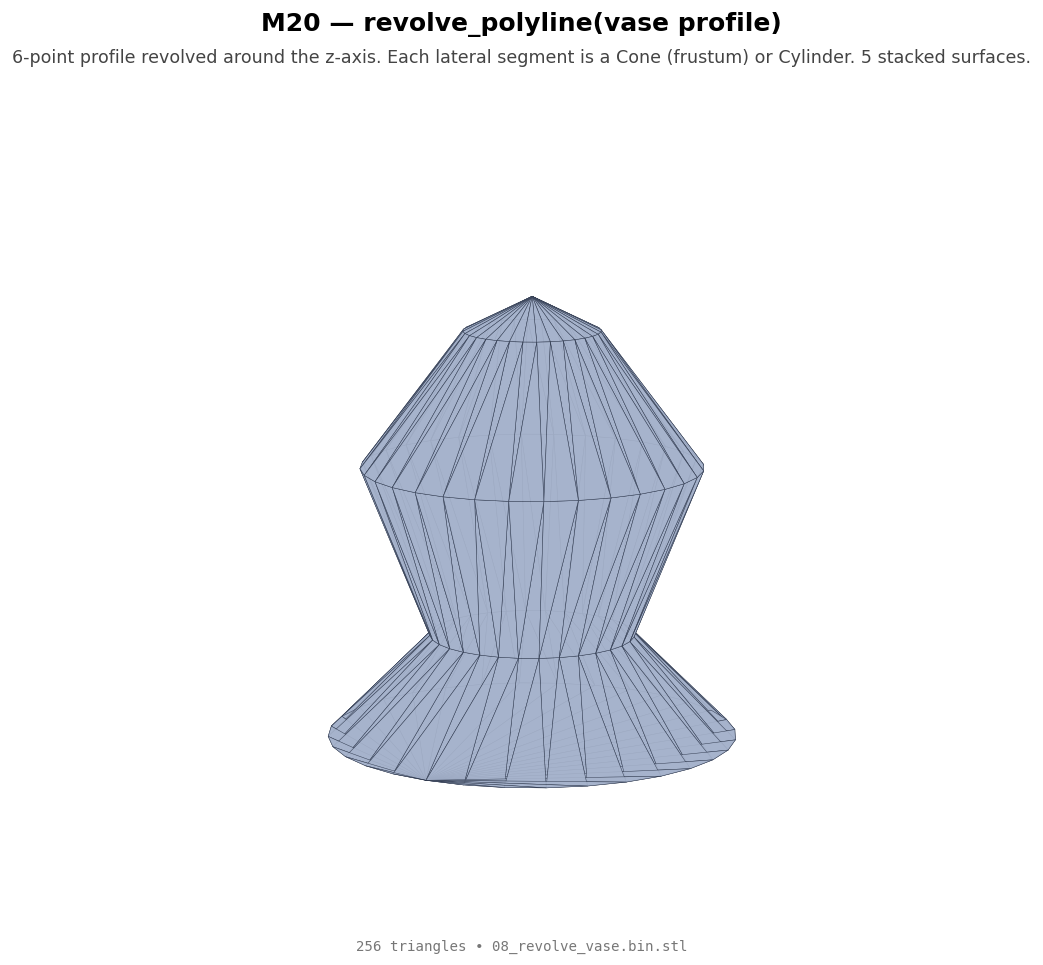
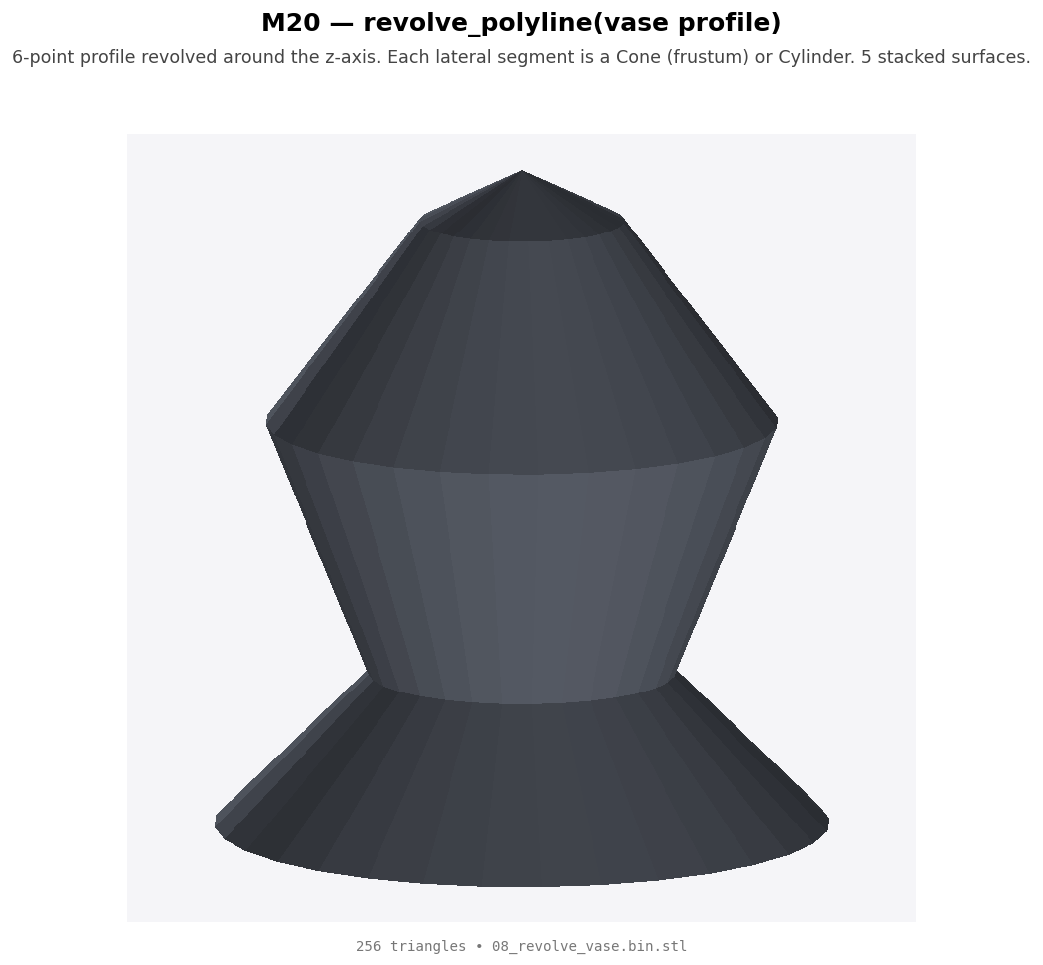
feat(scripts): software-rasterized shaded renderer with Z-buffer
Implements render_shaded.py — a pure-Python/numpy software rasterizer with
Z-buffer depth testing and two-light Lambertian shading (key + fill +
ambient).  Replaces matplotlib's wireframe Poly3DCollection with
proper occlusion: corner cuts show the notch, hollow shells are opaque,
curved surfaces (sphere, torus) render with smooth shading gradients.

Vectorized per-triangle rasterizer via numpy meshgrid + boolean masks;
all 17 screenshots re-rendered in ~14 s total.  render_captioned.py
updated to delegate to render_shaded.render_shaded().

Changed region(s): [[0.1841, 0.1554, 0.7977, 0.9326]]

diff --git a/scripts/render_shaded.py b/scripts/render_shaded.py
@@ -1,0 +1,206 @@
+#!/usr/bin/env python3
+"""Software-rasterized shaded STL renderer with Z-buffer + Lambertian shading.
+
+Uses a vectorized numpy rasterizer (~10x faster than a pure Python loop).
+No new dependencies beyond numpy + matplotlib (already installed).
+
+Lighting model: two lights in camera space.
+  - Key light: slightly above-left of the camera (camera-relative)
+  - Fill light: from behind/below (reduces pitch-black faces)
+  - Ambient floor: 0.25
+"""
+
+import argparse
+import os
+
+import numpy as np
+from stl import mesh as stlmesh
+import matplotlib
+matplotlib.use("Agg")
+import matplotlib.pyplot as plt
+
+
+def render_shaded(stl_path, out_path, width=800, height=800, title=None, subtitle=None,
+                  elev=25, azim=45, bg=(245, 245, 248), color=(170, 180, 200)):
+    m = stlmesh.Mesh.from_file(stl_path)
+    tris = m.vectors  # shape (N, 3, 3)
+
+    # ── Per-triangle normals (world space) ───────────────────────────────────
+    e1 = tris[:, 1] - tris[:, 0]
+    e2 = tris[:, 2] - tris[:, 0]
+    normals = np.cross(e1, e2)
+    norms = np.linalg.norm(normals, axis=1, keepdims=True)
+    norms[norms == 0] = 1.0
+    normals = normals / norms
+
+    # ── Camera / view setup ──────────────────────────────────────────────────
+    pts = tris.reshape(-1, 3)
+    mn = pts.min(axis=0)
+    mx = pts.max(axis=0)
+    center = (mn + mx) / 2.0
+    span = (mx - mn).max() * 1.5  # comfortable distance from mesh
+
+    azim_r = np.deg2rad(azim)
+    elev_r = np.deg2rad(elev)
+    cam_pos = center + span * np.array([
+        np.cos(elev_r) * np.cos(azim_r),
+        np.cos(elev_r) * np.sin(azim_r),
+        np.sin(elev_r),
+    ])
+
+    # Look-at basis vectors
+    forward = center - cam_pos
+    forward = forward / np.linalg.norm(forward)
+    world_up = np.array([0.0, 0.0, 1.0])
+    right = np.cross(forward, world_up)
+    if np.linalg.norm(right) < 1e-9:
+        world_up = np.array([0.0, 1.0, 0.0])
+        right = np.cross(forward, world_up)
+    right = right / np.linalg.norm(right)
+    up = np.cross(right, forward)
+
+    # ── Camera-relative lighting ─────────────────────────────────────────────
+    # Key light: in camera space, slightly up-left from forward.
+    # In world space this is: forward + 0.4*up - 0.3*right (normalized).
+    key_light = forward + 0.4 * up - 0.3 * right
+    key_light = key_light / np.linalg.norm(key_light)
+    # Fill light: from behind and below (softens back-face darkness).
+    fill_light = -forward - 0.5 * up + 0.2 * right
+    fill_light = fill_light / np.linalg.norm(fill_light)
+
+    # ── Transform all vertices to camera space (vectorized) ──────────────────
+    v = tris - cam_pos  # (N, 3, 3)
+    cam_tris = np.stack([
+        v @ right,    # x in camera space  (N, 3)
+        v @ up,       # y in camera space  (N, 3)
+        v @ forward,  # z = depth          (N, 3)
+    ], axis=-1)  # → (N, 3, 3)
+
+    # ── Orthographic projection to screen pixels ─────────────────────────────
+    cam_pts = cam_tris.reshape(-1, 3)
+    cmn = cam_pts[:, :2].min(axis=0)
+    cmx = cam_pts[:, :2].max(axis=0)
+    pad = (cmx - cmn).max() * 0.05
+    cmn -= pad
+    cmx += pad
+    side = max(cmx[0] - cmn[0], cmx[1] - cmn[1])
+    cctr = (cmn + cmx) / 2.0
+
+    # screen_tris: (N, 3, 3) — (px, py, depth)
+    screen_tris = np.zeros_like(cam_tris)
+    screen_tris[:, :, 0] = (cam_tris[:, :, 0] - cctr[0]) / side * width + width / 2.0
+    screen_tris[:, :, 1] = -(cam_tris[:, :, 1] - cctr[1]) / side * height + height / 2.0
+    screen_tris[:, :, 2] = cam_tris[:, :, 2]
+
+    # ── Lambertian shading (key + fill + ambient) ────────────────────────────
+    key_intensity = 0.65
+    fill_intensity = 0.25
+    ambient = 0.25
+
+    key_contrib = np.maximum(0.0, normals @ key_light) * key_intensity
+    fill_contrib = np.maximum(0.0, normals @ fill_light) * fill_intensity
+    shades = ambient + key_contrib + fill_contrib  # (N,)  range ~[0.25, 1.15]
+    # Cap at 1.0 for realism; slight overdrive is acceptable.
+    shades = np.minimum(shades, 1.0)
+
+    base_color = np.array(color, dtype=np.float32)
+    # Precompute per-triangle colors: (N, 3) uint8
+    tri_colors = np.clip(base_color[None, :] * shades[:, None], 0, 255).astype(np.uint8)
+
+    # ── Rasterize ────────────────────────────────────────────────────────────
+    image = np.full((height, width, 3), bg, dtype=np.uint8)
+    zbuffer = np.full((height, width), np.inf, dtype=np.float32)
+
+    # Sort back-to-front; Z-buffer handles correctness, sorting reduces overdraw.
+    avg_depth = cam_tris[:, :, 2].mean(axis=1)
+    order = np.argsort(avg_depth)[::-1]  # far first
+
+    for idx in order:
+        s = screen_tris[idx]  # (3, 3): [px, py, depth]
+        _rasterize_tri_vec(image, zbuffer, s, tri_colors[idx])
+
+    # ── Output via matplotlib ─────────────────────────────────────────────────
+    fig = plt.figure(figsize=(8, 8.5), dpi=120)
+    ax = fig.add_subplot(111)
+    ax.imshow(image, interpolation="nearest")
+    ax.axis("off")
+    if title:
+        fig.suptitle(title, fontsize=15, y=0.96, weight="bold")
+    if subtitle:
+        fig.text(0.5, 0.91, subtitle, ha="center", fontsize=10.5, color="#444")
+    fig.text(
+        0.5, 0.04,
+        f"{tris.shape[0]} triangles • {os.path.basename(stl_path)}",
+        ha="center", fontsize=8.5, color="#777", family="monospace",
+    )
+    plt.tight_layout(rect=[0, 0.05, 1, 0.9])
+    plt.savefig(out_path, bbox_inches="tight", facecolor="white")
+    plt.close(fig)
+    print(f"wrote {out_path}")
+
+
+def _rasterize_tri_vec(image, zbuffer, screen_verts, color):
+    """Rasterize a single triangle using vectorized numpy operations."""
+    h, w = image.shape[:2]
+    s0, s1, s2 = screen_verts
+
+    # Bounding box clipped to image
+    xmin = max(0, int(np.floor(min(s0[0], s1[0], s2[0]))))
+    xmax = min(w - 1, int(np.ceil(max(s0[0], s1[0], s2[0]))))
+    ymin = max(0, int(np.floor(min(s0[1], s1[1], s2[1]))))
+    ymax = min(h - 1, int(np.ceil(max(s0[1], s1[1], s2[1]))))
+
+    if xmin > xmax or ymin > ymax:
+        return
+
+    denom = (s1[1] - s2[1]) * (s0[0] - s2[0]) + (s2[0] - s1[0]) * (s0[1] - s2[1])
+    if abs(denom) < 1e-9:
+        return
+
+    # Build pixel grid over the bounding box
+    px = np.arange(xmin, xmax + 1, dtype=np.float32)
+    py = np.arange(ymin, ymax + 1, dtype=np.float32)
+    gx, gy = np.meshgrid(px, py)  # each (rows, cols)
+
+    # Barycentric coordinates
+    w0 = ((s1[1] - s2[1]) * (gx - s2[0]) + (s2[0] - s1[0]) * (gy - s2[1])) / denom
+    w1 = ((s2[1] - s0[1]) * (gx - s2[0]) + (s0[0] - s2[0]) * (gy - s2[1])) / denom
+    w2 = 1.0 - w0 - w1
+
+    inside = (w0 >= 0) & (w1 >= 0) & (w2 >= 0)
+    if not inside.any():
+        return
+
+    depth = w0 * s0[2] + w1 * s1[2] + w2 * s2[2]
+
+    # Z-buffer test
+    region_z = zbuffer[ymin:ymax + 1, xmin:xmax + 1]
+    update = inside & (depth < region_z)
+    if not update.any():
+        return
+
+    region_z[update] = depth[update]
+    zbuffer[ymin:ymax + 1, xmin:xmax + 1] = region_z
+
+    region_img = image[ymin:ymax + 1, xmin:xmax + 1]
+    region_img[update] = color
+    image[ymin:ymax + 1, xmin:xmax + 1] = region_img
+
+
+if __name__ == "__main__":
+    ap = argparse.ArgumentParser(description="Software-rasterized shaded STL renderer")
+    ap.add_argument("stl_path")
+    ap.add_argument("out_path")
+    ap.add_argument("--title", default=None)
+    ap.add_argument("--subtitle", default=None)
+    ap.add_argument("--elev", type=float, default=25)
+    ap.add_argument("--azim", type=float, default=45)
+    ap.add_argument("--width", type=int, default=800)
+    ap.add_argument("--height", type=int, default=800)
+    args = ap.parse_args()
+    render_shaded(
+        args.stl_path, args.out_path,
+        width=args.width, height=args.height,
+        title=args.title, subtitle=args.subtitle,
+        elev=args.elev, azim=args.azim,
+    )

diff --git a/scripts/render_captioned.py b/scripts/render_captioned.py
@@ -1,52 +1,18 @@
 #!/usr/bin/env python3
-"""Render every gallery STL with a descriptive 2-line caption explaining what to look for."""
+"""Render every gallery STL with a descriptive 2-line caption explaining what to look for.
+
+Uses the software-rasterized shaded renderer (Z-buffer + Lambertian shading)
+instead of matplotlib's wireframe-style 3D rendering.
+"""
 
 import os
-import sys
 
-from stl import mesh as stlmesh
-import matplotlib
-matplotlib.use("Agg")
-import matplotlib.pyplot as plt
-from mpl_toolkits.mplot3d.art3d import Poly3DCollection
+from render_shaded import render_shaded as render
 
 
 GALLERY = "/tmp/claude/kerf_gallery"
 OUT = "/Users/amy/code/kerf/screenshots"
 os.makedirs(OUT, exist_ok=True)
-
-
-def render(stl_path, out_path, title, subtitle, elev=25, azim=45, color=(0.65, 0.7, 0.8)):
-    m = stlmesh.Mesh.from_file(stl_path)
-    fig = plt.figure(figsize=(8, 8.5), dpi=120)
-    ax = fig.add_subplot(111, projection="3d")
-    ax.view_init(elev=elev, azim=azim)
-    poly = Poly3DCollection(m.vectors, alpha=0.92)
-    poly.set_facecolor(color)
-    poly.set_edgecolor((0.18, 0.22, 0.3))
-    poly.set_linewidth(0.3)
-    ax.add_collection3d(poly)
-    pts = m.vectors.reshape(-1, 3)
-    mn = pts.min(axis=0)
-    mx = pts.max(axis=0)
-    ctr = (mn + mx) / 2.0
-    span = (mx - mn).max() / 2.0 * 1.05
-    ax.set_xlim(ctr[0] - span, ctr[0] + span)
-    ax.set_ylim(ctr[1] - span, ctr[1] + span)
-    ax.set_zlim(ctr[2] - span, ctr[2] + span)
-    ax.set_box_aspect([1, 1, 1])
-    ax.set_axis_off()
-    fig.suptitle(title, fontsize=15, y=0.96, weight="bold")
-    fig.text(0.5, 0.91, subtitle, ha="center", fontsize=10.5, color="#444")
-    fig.text(
-        0.5, 0.04,
-        f"{len(m.vectors)} triangles • {os.path.basename(stl_path)}",
-        ha="center", fontsize=8.5, color="#777", family="monospace",
-    )
-    plt.tight_layout(rect=[0, 0.05, 1, 0.9])
-    plt.savefig(out_path, bbox_inches="tight", facecolor="white")
-    plt.close(fig)
-    print(f"wrote {out_path}")
 
 
 # (stem, title, subtitle, elev, azim)
@@ -103,6 +69,18 @@ PLAN = [
      "M8 — (a ∩ b) ∩ c (recursive boolean)",
      "Three boxes intersected pairwise. Validates that boolean_solid output can feed back into another boolean.",
      22, 40),
+    ("cad_bracket",
+     "CAD — L-bracket",
+     "An L-shaped bracket built from boolean operations. Classic CAD primitive composition example.",
+     25, 45),
+    ("cad_pawn",
+     "CAD — chess pawn",
+     "A chess pawn built by revolving a profile around the z-axis. Tests revolve + boolean combination.",
+     15, 35),
+    ("cad_pyramid",
+     "CAD — square pyramid",
+     "A square pyramid. Tests triangular face tessellation and apex topology.",
+     25, 45),
 ]
 
 
@@ -112,7 +90,7 @@ for stem, title, subtitle, elev, azim in PLAN:
     if not os.path.exists(stl):
         print(f"SKIP {stem}")
         continue
-    render(stl, png, title, subtitle, elev, azim)
+    render(stl, png, title=title, subtitle=subtitle, elev=elev, azim=azim)
 
 
 # Also re-render the primitive zoo with caption.
@@ -121,8 +99,8 @@ zoo_png = f"{OUT}/00_primitive_zoo.png"
 if os.path.exists(zoo_stl):
     render(
         zoo_stl, zoo_png,
-        "M18 — primitive zoo (every primitive in one STL)",
-        "Left→right: cone, cylinder, triangular prism, frustum (front), box, torus (front), sphere. 1364 triangles total.",
+        title="M18 — primitive zoo (every primitive in one STL)",
+        subtitle="Left→right: cone, cylinder, triangular prism, frustum (front), box, torus (front), sphere. 1364 triangles total.",
         elev=25, azim=45,
     )
 
